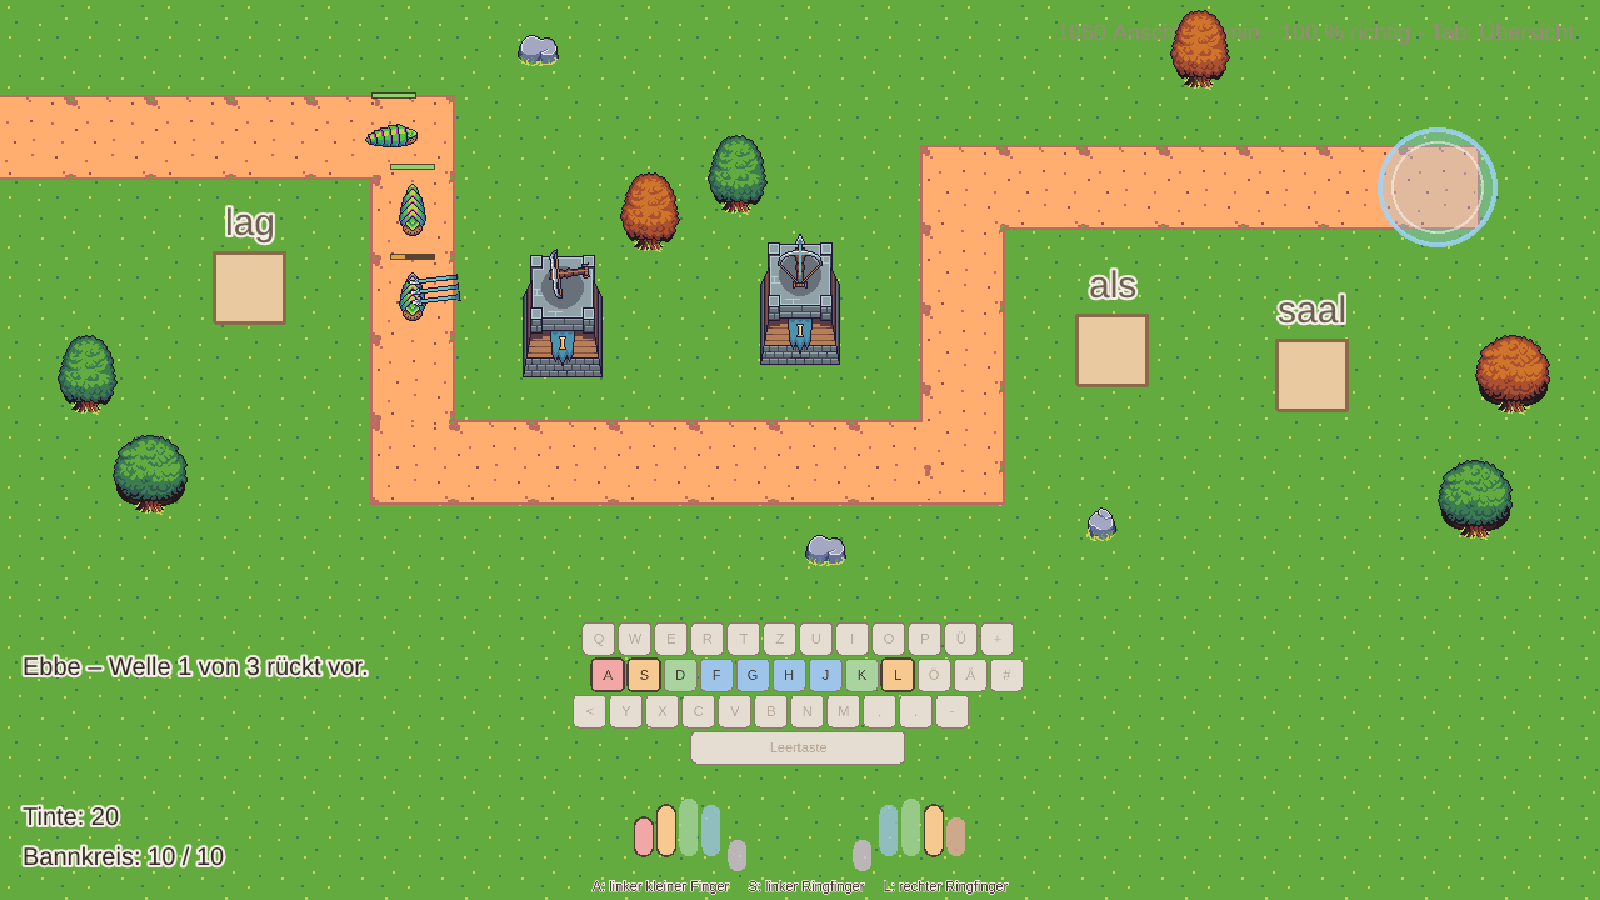
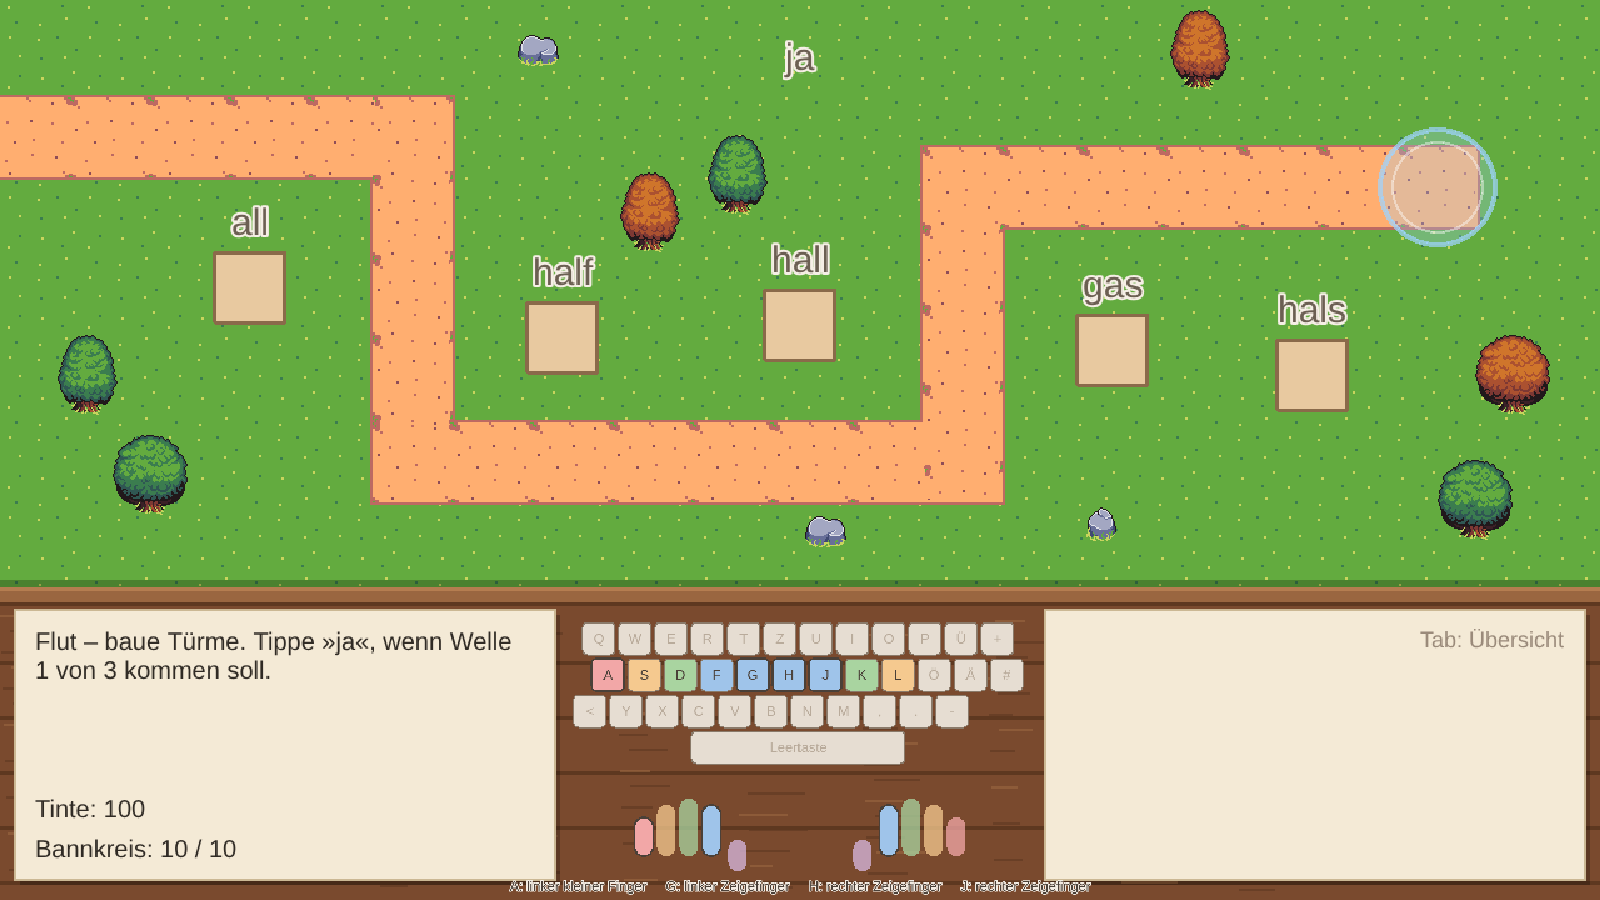
fix: put keyboard on a desk, keep stats on top, show hits when bolts land

diff --git a/src/scenes/BattleScene.ts b/src/scenes/BattleScene.ts
@@ -43,6 +43,17 @@ const WARD_RADIUS = 46;
 const WARD_COLOR = 0x9fd4ff;
 const HUD_TEXT = '#2f2a24';
 const HUD_OUTLINE = '#f6efe6';
+/** The desk with keyboard and notes covers the screen below this line; the map stays above it. */
+const DESK_TOP = 470;
+const DESK_DEPTH = 1500;
+/** Keyboard and the text on the notes lie on the desk. */
+const ON_DESK_DEPTH = 1600;
+const WOOD = 0x7a4a2e;
+const WOOD_DARK = 0x5e3820;
+const WOOD_LIGHT = 0x9a6640;
+const WOOD_EDGE = 0xb57d50;
+const PAPER = 0xf4ead6;
+const PAPER_EDGE = 0xcbb894;
 /** Typed after the level has ended to play it again. */
 const AGAIN_WORD = FLOOD_WORD;
 
@@ -57,7 +68,7 @@ const DECORATION: readonly { frame: string; x: number; y: number }[] = [
   { frame: TREE_FRAMES[2], x: 960, y: 40 },
   { frame: ROCK_FRAMES[0], x: 430, y: 40 },
   { frame: ROCK_FRAMES[1], x: 880, y: 420 },
-  { frame: ROCK_FRAMES[0], x: 660, y: 440 },
+  { frame: ROCK_FRAMES[0], x: 660, y: 425 },
 ];
 
 export interface BattleSceneData {
@@ -67,6 +78,8 @@ export interface BattleSceneData {
 interface EnemyView {
   readonly sprite: Phaser.GameObjects.Sprite;
   readonly health: Phaser.GameObjects.Graphics;
+  /** Health as far as the hits have landed on screen; a bolt in flight has not hit yet. */
+  shownHealth: number;
   last: Point;
 }
 
@@ -119,10 +132,11 @@ export class BattleScene extends Phaser.Scene {
     this.#endPanel = null;
 
     this.#drawMap();
+    this.#drawDesk();
     this.#drawHud();
     this.#keyboard = new KeyboardView(this, this.scale.width / 2, 540, qwertzDe).setScale(0.5).setUnlocked(HOME_ROW_KEYS);
-    this.#keyboard.setDepth(20);
-    this.#statsView = new StatsView(this, this.scale.width / 2, 260);
+    this.#keyboard.setDepth(ON_DESK_DEPTH);
+    this.#statsView = new StatsView(this, { x: this.scale.width - 28, y: 502 }, { x: this.scale.width / 2, y: 240 });
     this.#statsView.update(this.#progress);
     this.#engine = new TypingEngine(this.#words());
 
@@ -144,9 +158,11 @@ export class BattleScene extends Phaser.Scene {
   }
 
   override update(_time: number, delta: number): void {
-    const shots = this.#battle.update(Math.min(delta, MAX_STEP_MS));
+    const step = this.#battle.update(Math.min(delta, MAX_STEP_MS));
+    // Shots and arrivals first: they take their enemies out of the walking ones.
+    for (const shot of step.shots) this.#showShot(shot);
+    for (const enemy of step.arrived) this.#showArrival(enemy);
     this.#drawEnemies();
-    for (const shot of shots) this.#showShot(shot);
     this.#sync();
   }
 
@@ -274,12 +290,43 @@ export class BattleScene extends Phaser.Scene {
     this.tweens.add({ targets: this.#ward, alpha: { from: 1, to: 0.6 }, duration: 1200, yoyo: true, repeat: -1 });
   }
 
+  /** Wooden desk below the map: the keyboard lies on it, the notes left and right carry the texts. */
+  #drawDesk(): void {
+    const { width, height } = this.scale;
+    const desk = this.add.graphics().setDepth(DESK_DEPTH);
+    // Shadow on the grass, then the front edge and the boards.
+    desk.fillStyle(0x000000, 0.25).fillRect(0, DESK_TOP - 6, width, 6);
+    desk.fillStyle(WOOD_LIGHT, 1).fillRect(0, DESK_TOP, width, 12);
+    desk.fillStyle(WOOD_EDGE, 1).fillRect(0, DESK_TOP, width, 3);
+    desk.fillStyle(WOOD_DARK, 1).fillRect(0, DESK_TOP + 12, width, 3);
+    desk.fillStyle(WOOD, 1).fillRect(0, DESK_TOP + 15, width, height - DESK_TOP - 15);
+    const boardHeight = 44;
+    for (let y = DESK_TOP + 15 + boardHeight; y < height; y += boardHeight) {
+      desk.fillStyle(WOOD_DARK, 1).fillRect(0, y, width, 3);
+    }
+    // Grain: short darker and lighter strokes in a fixed pattern, so the desk looks the same every time.
+    for (let i = 0; i < 160; i++) {
+      const x = (i * 197) % width;
+      const y = DESK_TOP + 22 + ((i * 53) % (height - DESK_TOP - 30));
+      desk.fillStyle(i % 3 === 0 ? WOOD_LIGHT : WOOD_DARK, 0.6).fillRect(x, y, 18 + ((i * 7) % 30), 2);
+    }
+
+    for (const note of [
+      { x: 12, width: 432 },
+      { x: width - 444, width: 432 },
+    ]) {
+      desk.fillStyle(0x000000, 0.25).fillRect(note.x + 4, 492, note.width, 216);
+      desk.fillStyle(PAPER, 1).fillRect(note.x, 488, note.width, 216);
+      desk.lineStyle(2, PAPER_EDGE, 1).strokeRect(note.x, 488, note.width, 216);
+    }
+  }
+
   #drawHud(): void {
-    // Bottom left, beside the keyboard: the path runs along the top edge.
-    const style = { fontFamily: 'sans-serif', fontSize: '20px', color: HUD_TEXT, stroke: HUD_OUTLINE, strokeThickness: 4 };
-    this.#phaseText = this.add.text(16, 520, '', { ...style, wordWrap: { width: 420 } }).setDepth(30);
-    this.#inkText = this.add.text(16, 640, '', style).setDepth(30);
-    this.#wardText = this.add.text(16, 672, '', style).setDepth(30);
+    // On the left note of the desk.
+    const style = { fontFamily: 'sans-serif', fontSize: '20px', color: HUD_TEXT };
+    this.#phaseText = this.add.text(28, 502, '', { ...style, wordWrap: { width: 400 } }).setDepth(ON_DESK_DEPTH);
+    this.#inkText = this.add.text(28, 636, '', style).setDepth(ON_DESK_DEPTH);
+    this.#wardText = this.add.text(28, 668, '', style).setDepth(ON_DESK_DEPTH);
   }
 
   #updateHud(): void {
@@ -312,38 +359,46 @@ export class BattleScene extends Phaser.Scene {
   }
 
   #drawEnemies(): void {
-    const alive = new Set<number>();
     for (const enemy of this.#battle.enemies) {
-      alive.add(enemy.id);
       const at = this.#battle.positionOf(enemy);
       let view = this.#enemies.get(enemy.id);
       if (!view) {
-        view = { sprite: this.add.sprite(at.x, at.y, enemy.kind.id), health: this.add.graphics(), last: at };
+        view = {
+          sprite: this.add.sprite(at.x, at.y, enemy.kind.id),
+          health: this.add.graphics(),
+          shownHealth: enemy.kind.health,
+          last: at,
+        };
         this.#enemies.set(enemy.id, view);
       }
       const heading = this.#heading(view, enemy, at);
       view.sprite.setPosition(at.x, at.y).setDepth(at.y + 100);
       view.sprite.play(walkAnimation(enemy.kind.id, heading), true);
       view.last = at;
-
-      const share = Math.max(0, enemy.health / enemy.kind.health);
-      view.health
-        .clear()
-        .setDepth(at.y + 101)
-        .fillStyle(0x2f2a24, 0.8)
-        .fillRect(at.x - 18, at.y - 36, 36, 5)
-        .fillStyle(share > 0.5 ? 0x8fd16a : 0xe0a040, 1)
-        .fillRect(at.x - 17, at.y - 35, 34 * share, 3);
+      this.#drawHealth(view, enemy, at);
     }
+  }
 
-    // Enemies that reached the ward circle vanish into it; defeated ones play their death in `#showShot`.
-    for (const [id, view] of this.#enemies) {
-      if (alive.has(id) || view.sprite.anims.currentAnim?.key.includes('-death-')) continue;
+  #drawHealth(view: EnemyView, enemy: Enemy, at: Point): void {
+    const share = view.shownHealth / enemy.kind.health;
+    view.health
+      .clear()
+      .setDepth(at.y + 101)
+      .fillStyle(0x2f2a24, 0.8)
+      .fillRect(at.x - 18, at.y - 36, 36, 5)
+      .fillStyle(share > 0.5 ? 0x8fd16a : 0xe0a040, 1)
+      .fillRect(at.x - 17, at.y - 35, 34 * share, 3);
+  }
+
+  /** An enemy reached the ward circle: it fades into the circle, and the circle shudders. */
+  #showArrival(enemy: Enemy): void {
+    const view = this.#enemies.get(enemy.id);
+    if (view) {
+      this.#enemies.delete(enemy.id);
       view.health.destroy();
       this.tweens.add({ targets: view.sprite, alpha: 0, scale: 0.4, duration: 300, onComplete: () => view.sprite.destroy() });
-      this.#enemies.delete(id);
-      this.cameras.main.flash(150, 160, 210, 255);
     }
+    this.tweens.add({ targets: this.#ward, scale: { from: 1.25, to: 1 }, duration: 350, ease: 'Back.easeOut' });
   }
 
   /** Picks the sprite row from the direction of travel and flips side views as needed. */
@@ -380,44 +435,56 @@ export class BattleScene extends Phaser.Scene {
     this.#towers.set(tower.site.id, { weapon });
   }
 
+  /**
+   * The tower turns and shoots; the bolt follows its target. The hit counts on
+   * screen only when the bolt lands: then the health bar drops or the enemy dies.
+   */
   #showShot(shot: Shot): void {
     const art = TOWER_ART[shot.tower.kind.id];
     const view = this.#towers.get(shot.tower.site.id);
     const enemyView = this.#enemies.get(shot.enemy.id);
     if (!art || !view || !enemyView) return;
+    // A defeated enemy leaves the battle now; it stays on screen until the bolt arrives.
+    if (shot.defeated) this.#enemies.delete(shot.enemy.id);
 
     const from = { x: view.weapon.x, y: view.weapon.y };
-    const to = this.#battle.positionOf(shot.enemy);
-    const angle = Phaser.Math.Angle.Between(from.x, from.y, to.x, to.y);
+    const target = enemyView.sprite;
+    const angle = Phaser.Math.Angle.Between(from.x, from.y, target.x, target.y);
     // The Spire weapons and projectiles point up.
     view.weapon.setRotation(angle + Math.PI / 2).play(art.weaponAttack);
 
     const projectile = this.add.image(from.x, from.y, art.projectile).setRotation(angle + Math.PI / 2).setDepth(900);
-    const duration = (Phaser.Math.Distance.Between(from.x, from.y, to.x, to.y) / PROJECTILE_SPEED) * 1000;
-    this.tweens.add({
-      targets: projectile,
-      x: to.x,
-      y: to.y,
+    const duration = (Phaser.Math.Distance.Between(from.x, from.y, target.x, target.y) / PROJECTILE_SPEED) * 1000;
+    this.tweens.addCounter({
+      from: 0,
+      to: 1,
       duration,
+      onUpdate: (tween) => {
+        const t = tween.getValue() ?? 0;
+        const x = from.x + (target.x - from.x) * t;
+        const y = from.y + (target.y - from.y) * t;
+        projectile.setPosition(x, y).setRotation(Phaser.Math.Angle.Between(from.x, from.y, target.x, target.y) + Math.PI / 2);
+      },
       onComplete: () => {
         projectile.destroy();
-        const impact = this.add.sprite(to.x, to.y, art.impact).setDepth(901).play(art.impact);
+        const impact = this.add.sprite(target.x, target.y, art.impact).setDepth(901).play(art.impact);
         impact.once(Phaser.Animations.Events.ANIMATION_COMPLETE, () => impact.destroy());
+        this.#land(shot, enemyView);
       },
     });
+  }
 
-    if (shot.defeated) {
-      this.#enemies.delete(shot.enemy.id);
-      enemyView.health.destroy();
-      const heading = (enemyView.sprite.getData('heading') as Heading | undefined) ?? 'side';
-      this.time.delayedCall(duration, () => {
-        enemyView.sprite.play(deathAnimation(shot.enemy.kind.id, heading));
-        enemyView.sprite.once(Phaser.Animations.Events.ANIMATION_COMPLETE, () => {
-          this.tweens.add({ targets: enemyView.sprite, alpha: 0, duration: 400, onComplete: () => enemyView.sprite.destroy() });
-        });
-        this.#float(to, `+${shot.enemy.kind.ink} Tinte`, '#2b3a6b');
-      });
-    }
+  #land(shot: Shot, enemyView: EnemyView): void {
+    // Bolts can land out of order; the bar never grows back.
+    enemyView.shownHealth = Math.min(enemyView.shownHealth, shot.health);
+    if (!shot.defeated) return;
+    enemyView.health.destroy();
+    const heading = (enemyView.sprite.getData('heading') as Heading | undefined) ?? 'side';
+    enemyView.sprite.play(deathAnimation(shot.enemy.kind.id, heading));
+    enemyView.sprite.once(Phaser.Animations.Events.ANIMATION_COMPLETE, () => {
+      this.tweens.add({ targets: enemyView.sprite, alpha: 0, duration: 400, onComplete: () => enemyView.sprite.destroy() });
+    });
+    this.#float(enemyView.sprite, `+${shot.enemy.kind.ink} Tinte`, '#2b3a6b');
   }
 
   /** Short text that rises and fades at `at`. */

diff --git a/src/ui/StatsView.ts b/src/ui/StatsView.ts
@@ -10,9 +10,12 @@ function minutes(ms: number): string {
   return `${Math.floor(seconds / 60)}:${String(seconds % 60).padStart(2, '0')}`;
 }
 
+/** Above the scene and the desk, so neither trees nor towers cover the statistics. */
+const DEPTH = 2000;
+
 /**
- * Session statistics: a quiet line in the top right corner while playing and
- * an overview panel on demand.
+ * Session statistics: a quiet line, right-aligned at `line`, while playing and
+ * an overview panel at `overview` on demand.
  */
 export class StatsView {
   readonly #line: Phaser.GameObjects.Text;
@@ -20,17 +23,18 @@ export class StatsView {
   readonly #overviewText: Phaser.GameObjects.Text;
   readonly #panel: Phaser.GameObjects.Rectangle;
 
-  constructor(scene: Phaser.Scene, overviewX: number, overviewY: number) {
+  constructor(scene: Phaser.Scene, line: { x: number; y: number }, overview: { x: number; y: number }) {
     this.#line = scene.add
-      .text(scene.scale.width - 20, 16, '', { fontFamily: 'sans-serif', fontSize: '18px', color: QUIET_TEXT })
-      .setOrigin(1, 0);
+      .text(line.x, line.y, '', { fontFamily: 'sans-serif', fontSize: '18px', color: QUIET_TEXT })
+      .setOrigin(1, 0)
+      .setDepth(DEPTH);
     this.#overviewText = scene.add
       .text(0, 0, '', { fontFamily: 'sans-serif', fontSize: '24px', color: TEXT, align: 'left', lineSpacing: 8 })
       .setOrigin(0.5);
     this.#panel = scene.add.rectangle(0, 0, 10, 10, 0xfffaf2, 0.96).setRounded(16).setStrokeStyle(2, 0xd9c8b4);
     this.#overview = scene.add
-      .container(overviewX, overviewY, [this.#panel, this.#overviewText])
-      .setDepth(10)
+      .container(overview.x, overview.y, [this.#panel, this.#overviewText])
+      .setDepth(DEPTH)
       .setVisible(false);
   }
 
@@ -39,7 +43,7 @@ export class StatsView {
     const strokes = session.correctStrokes + session.wrongStrokes;
     const speed = Math.round(session.strokesPerMinute);
     const accuracy = Math.round(session.accuracy * 100);
-    this.#line.setText(strokes === 0 ? '' : `${speed} Anschläge/min · ${accuracy} % richtig · Tab: Übersicht`);
+    this.#line.setText(strokes === 0 ? 'Tab: Übersicht' : `${speed} Anschläge/min · ${accuracy} % richtig · Tab: Übersicht`);
 
     const sessions = progress.snapshot().sessions;
     const totalCorrect = sessions.reduce((sum, s) => sum + s.correct, 0);

diff --git a/src/battle/battle.ts b/src/battle/battle.ts
@@ -26,8 +26,19 @@ export interface Tower {
 export interface Shot {
   readonly tower: Tower;
   readonly enemy: Enemy;
+  /** Health of the enemy right after this hit; the enemy itself may take more hits before the scene shows this one. */
+  readonly health: number;
   readonly defeated: boolean;
 }
+
+/** What happened in one `update` step. */
+export interface Step {
+  readonly shots: readonly Shot[];
+  /** Enemies that reached the ward circle and weakened it. */
+  readonly arrived: readonly Enemy[];
+}
+
+const NOTHING: Step = { shots: [], arrived: [] };
 
 /**
  * One running level without rendering. Time advances only through `update`,
@@ -105,11 +116,11 @@ export class Battle {
     this.#sinceSpawnMs = 0;
   }
 
-  /** Advances the battle by `deltaMs`; returns the attacks made in this step. */
-  update(deltaMs: number): Shot[] {
-    if (this.#phase !== 'ebb') return [];
+  /** Advances the battle by `deltaMs`. */
+  update(deltaMs: number): Step {
+    if (this.#phase !== 'ebb') return NOTHING;
     const wave = this.level.waves[this.#wave];
-    if (!wave) return [];
+    if (!wave) return NOTHING;
 
     // The first enemy enters at once, the others one spacing apart.
     if (this.#spawned > 0) this.#sinceSpawnMs += deltaMs;
@@ -132,7 +143,7 @@ export class Battle {
       this.#wave++;
       this.#phase = this.#wave < this.level.waves.length ? 'flood' : 'won';
     }
-    return shots;
+    return { shots, arrived };
   }
 
   /** Every ready tower hits the enemy in range that is furthest along the path. */
@@ -156,7 +167,7 @@ export class Battle {
         this.#ink += target.kind.ink;
         this.#enemies = this.#enemies.filter((enemy) => enemy !== target);
       }
-      shots.push({ tower, enemy: target, defeated });
+      shots.push({ tower, enemy: target, health: Math.max(0, target.health), defeated });
     }
     return shots;
   }

diff --git a/src/battle/battle.test.ts b/src/battle/battle.test.ts
@@ -144,23 +144,27 @@ describe('towers', () => {
     battle.build(battle.level.sites[0]!, BOW);
     battle.endFlood();
 
-    const shots = Array.from({ length: 12 }, () => battle.update(100)).flat();
+    const shots = Array.from({ length: 12 }, () => battle.update(100).shots).flat();
 
-    expect(shots.map((shot) => shot.defeated)).toEqual([false, true]);
+    expect(shots.map((shot) => [shot.health, shot.defeated])).toEqual([
+      [10, false],
+      [0, true],
+    ]);
     expect(battle.enemies).toEqual([]);
     expect(battle.ink).toBe(25);
     expect(battle.ward).toBe(5);
     expect(battle.phase).toBe('won');
   });
 
-  it('leaves enemies out of range alone', () => {
+  it('leaves enemies out of range alone and reports them at the ward circle', () => {
     const battle = new Battle(level({ waves: [{ kind: BUG, count: 1, spacingMs: 1000 }] }));
     battle.build(battle.level.sites[1]!, BOW);
     battle.endFlood();
 
-    const shots = Array.from({ length: 40 }, () => battle.update(100)).flat();
+    const steps = Array.from({ length: 40 }, () => battle.update(100));
 
-    expect(shots).toEqual([]);
+    expect(steps.flatMap((step) => step.shots)).toEqual([]);
+    expect(steps.flatMap((step) => step.arrived.map((enemy) => enemy.kind))).toEqual([BUG]);
     expect(battle.ward).toBe(4);
   });
 
@@ -171,7 +175,7 @@ describe('towers', () => {
 
     // Run until the second shot: by then both beetles are in range.
     const shots = [];
-    while (shots.length < 2) shots.push(...battle.update(100));
+    while (shots.length < 2) shots.push(...battle.update(100).shots);
 
     const [leader, follower] = battle.enemies;
     expect(Math.hypot(battle.positionOf(follower!).x - 100, battle.positionOf(follower!).y - 40)).toBeLessThanOrEqual(60);
